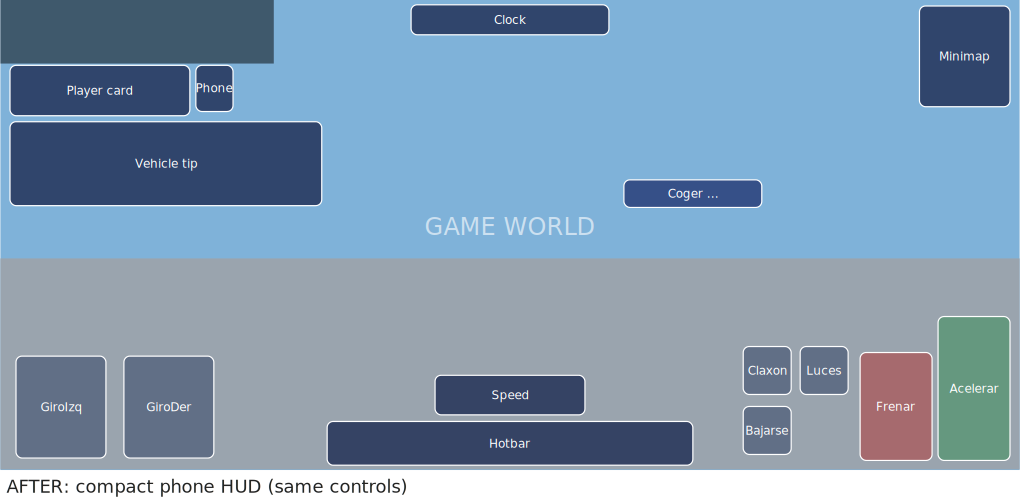
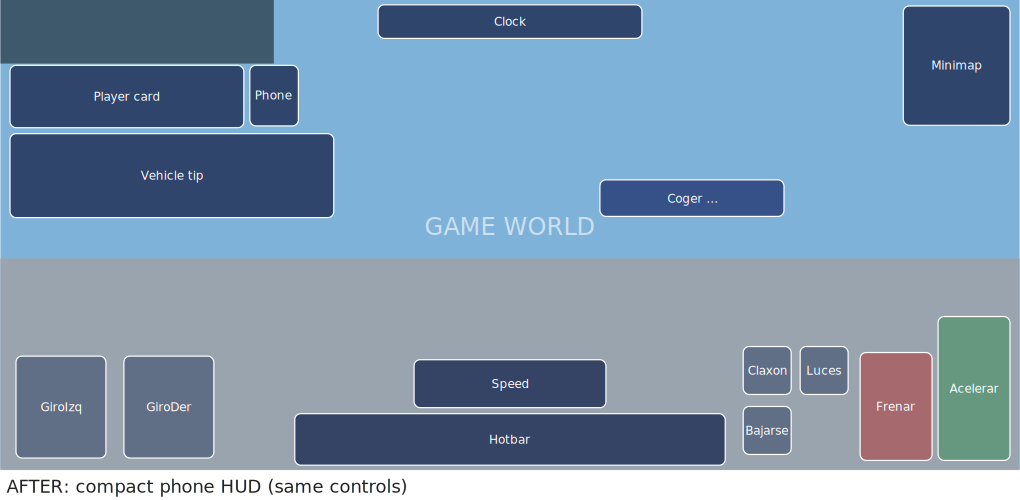
HUD del móvil: menos achicado, legible y con todo a mano
- Barra rápida a su tamaño y cuadro del coche a x1; minimapa a x0,85
- Tu estado: nivel y dinero ≥ 16 pt, 4 barras con icono (≥ 6 pt) y el
  número cuando una barra está baja; tocar sigue desplegándolo
- Hora grande en una fila con el tiempo y la fecha corta («mié 3 ene»)
- ValPhone al volante: icono de 44x55 pt
- Velocímetro de bici y patinete con los km/h bien grandes
- Notas y primeros pasos con letra ≥ 14 pt, «Saltar» y × ≥ 44 pt; toda la
  nota se toca y los consejos son cortos en el móvil
- El aviso del ValPhone se turna con las notas en el mismo sitio
- Carteles: uno solo, a su tamaño de siempre
- Tabla antes/después y esquemas actualizados (21,8 % frente a 37,6 %)

Claude-Session: https://claude.ai/code/session_01NLHSc9vUgM3Lfn2jUL556r

diff --git a/roblox/docs/hud-movil-compacto.md b/roblox/docs/hud-movil-compacto.md
@@ -1,13 +1,22 @@
 # HUD compacto en el móvil
 
 Queja del dueño (móvil apaisado, ~932x430 pt): «aparece mucha información en pantalla que apenas deja
-ver el juego». Y después: «No agrupes todos los botones ni los hagas más pequeños si así van a
-perjudicar a la hora de jugar. Optimiza pero que todo esté a mano».
+ver el juego». Después: «No agrupes todos los botones ni los hagas más pequeños si así van a
+perjudicar a la hora de jugar» y «vigila el hacer más pequeña la interfaz… No debemos excedernos en
+achicar las cosas».
 
-Regla: **lo que solo informa se encoge; los mandos no**. Joystick, racimo, ◀ ▶, FRENO / ACELERAR,
-Luces, claxon (Timbre), Bajarse, Interactuar y Acciones tienen el mismo tamaño y el mismo sitio en
-todos los modos (a pie, bici, patinete, coche). Todo se activa solo en pantallas táctiles sin teclado
-(`HudLayout.compute(..., { Touch = true })`); el ordenador no cambia.
+Reglas:
+
+- **El centro de la pantalla, libre**: lo que solo informa se **recoloca** (a los lados y arriba) y se
+  recoge, sin quedar diminuto.
+- **Los mandos no cambian**: joystick, racimo, ◀ ▶, FRENO / ACELERAR, Luces, claxon (Timbre),
+  Bajarse, Interactuar, Acciones y la **barra rápida** tienen el mismo tamaño y el mismo sitio en
+  todos los modos (a pie, bici, patinete, coche).
+- **Suelos** en el móvil del dueño (escala del HUD 0.548): lo que se toca ≥ 44x44 pt, textos ≥ 14 pt
+  (nivel y dinero ≥ 16 pt), barras ≥ 6 pt de grueso. `scripts/test-hud.luau` comprueba los de las
+  piezas nuevas.
+- Solo en pantallas táctiles sin teclado (`HudLayout.compute(..., { Touch = true })`); el ordenador no
+  cambia.
 
 ## Antes / después (932x430 pt, montado en el patinete eléctrico)
 
@@ -17,16 +26,16 @@ estimación sacada de las capturas.
 
 | Pieza | Antes (pt) | Antes | Después (pt) | Después | Qué cambia |
 |---|---|---|---|---|---|
-| Tu estado | 241x92 | 5,5 % | 164x46 | 1,9 % | plegado: foto, nivel, dinero y 4 barritas; tocar = desplegar 6 s |
-| Hora, fecha y tiempo | 329x35 | 2,9 % | 181x27 | 1,2 % | hora y tiempo; la fecha sigue en el ValPhone |
-| Minimapa | 115x128 | 3,7 % | 83x92 | 1,9 % | x0,72 desde la esquina |
-| ValPhone al volante | 61x77 | 1,2 % | 34x42 | 0,4 % | icono junto a tu estado |
-| Barra rápida | 394x47 | 4,6 % | 335x40 | 3,3 % | x0,85; sigue a la vista y se puede tocar al volante |
-| Cuadro de mandos (bici, patinete, monopatín) | 368x89 | 8,2 % | 137x36 | 1,2 % | solo km/h y batería: sin P R N D ni esferas |
-| Cuadro de mandos (coche) | 368x89 | 8,2 % | 276x67 | 4,6 % | el mismo, x0,9 en vez de x1,2 |
-| Consejo del vehículo | 351x82 (centro) | 7,2 % | 285x77 (izquierda) | 5,5 % | aviso a un lado, se va solo a los 5 s, una vez por jugador |
-| Carteles de la estación de bicis (est.) | 3 × 168x33 | 4,2 % | 1 × 126x25 | 0,8 % | solo el del botón grande (o el más cercano) |
-| **Total en el patinete** | | **37,6 %** | | **16,2 %** | **57 % menos** |
+| Tu estado | 241x92 | 5,5 % | 214x57 | 3,0 % | foto, nivel y dinero (≥ 16 pt), 4 barras con icono (6,6 pt); el número sale si una barra está baja; tocar = desplegar 6 s |
+| Hora, fecha y tiempo | 329x35 | 2,9 % | 241x31 | 1,8 % | una fila: la hora grande (~30 pt), tiempo, grados y «mié 3 ene» |
+| Minimapa | 115x128 | 3,7 % | 98x109 | 2,7 % | x0,85 desde la esquina |
+| ValPhone al volante | 61x77 | 1,2 % | 44x55 | 0,6 % | icono junto a tu estado (≥ 44 pt) |
+| Barra rápida | 394x47 | 4,6 % | 394x47 | 4,6 % | igual: es juego (objetos, vehículos, teléfono) |
+| Cuadro de mandos (bici, patinete, monopatín) | 368x89 | 8,2 % | 175x44 | 1,9 % | km/h grandes (~38 pt) y batería; sin P R N D ni esferas |
+| Cuadro de mandos (coche) | 368x89 | 8,2 % | 307x75 | 5,7 % | el mismo a x1 (antes x1,2 en el móvil) |
+| Consejo del vehículo | 351x82 (centro) | 7,2 % | 296x77 (izquierda) | 5,7 % | a un lado, letra ≥ 14 pt, se va solo a los 5 s, una vez por jugador |
+| Carteles de la estación de bicis (est.) | 3 × 168x33 | 4,2 % | 1 × 168x33 | 1,4 % | solo el del botón grande (o el más cercano), a su tamaño |
+| **Total en el patinete** | | **37,6 %** | | **21,8 %** | **42 % menos, y el centro libre** |
 | «¿Qué hago ahora?» (al tocar ❓, est.) | 508x128 (centro) | 16,2 % | ~370x150 (derecha) | ~13,8 % | arriba a la derecha, bajo el minimapa |
 
 Esquemas (mismos rectángulos, a escala): [antes](hud-movil/before.png) · [después](hud-movil/after.png)
@@ -38,15 +47,19 @@ Esquemas (mismos rectángulos, a escala): [antes](hud-movil/before.png) · [desp
 
 - `UI/HudLayout.luau`: `HudLayout.Compact` (medidas del móvil) y `Placement.Shrink`: la pieza se dibuja
   a su tamaño de diseño y se encoge con el UIScale «PressScale» (el de `Theme.pressable`, con su
-  atributo `Base`), así el minimapa, la barra rápida y el ValPhone no se rehacen por dentro.
-  `rect()` ya da el rectángulo encogido. Piezas nuevas: `StatusOpen`, `DashCompact`, `HelpCard`.
+  atributo `Base`), así el minimapa y el ValPhone no se rehacen por dentro. `rect()` ya da el
+  rectángulo encogido. Piezas nuevas: `StatusOpen`, `DashCompact`, `GuideNote`, `HelpCard`.
 - `UI/Hud.luau`: tu estado plegado (`buildCompactStatus`, botón «Expand»; se despliega solo unos
-  segundos si una barra baja de 25 %) y la cápsula de la hora pequeña.
+  segundos si una barra baja de 25 %) y la cápsula de la hora en una fila (`ShortDate`).
+- `UI/Phone.luau`: `Phone.bannerShowing()`. En el móvil el aviso del ValPhone va en el hueco de las
+  notas (debajo de tu estado) y se turnan: mientras se ve el aviso, la nota espera.
 - `Controllers/VehicleHud.luau`: «SpeedChip» para lo que no tiene intermitentes (`VehicleControls`).
-- `Controllers/Guide.luau`: pistas y consejos en `Items.Guide` (en el móvil, a la izquierda) y 5 s.
-  Los consejos ya se guardaban por jugador (`TipsSeen`, OnboardingService).
+- `Controllers/Guide.luau`: tarjeta de los primeros pasos y notas a la izquierda (`Items.Guide` /
+  `Items.GuideNote`), letra de 26 en el lienzo (≥ 14 pt), «Saltar» y la × de 80 (≥ 44 pt). En el móvil
+  toda la nota es el botón («👆 Toca para ir» al final del texto) y los consejos son la versión corta
+  (`Onboarding.TipsTouch`). Los consejos ya se guardaban por jugador (`TipsSeen`, OnboardingService).
 - `Controllers/HelpUI.luau`: tarjeta en `Items.HelpCard` (móvil: arriba a la derecha, 480 de ancho).
-- `Controllers/Prompts.luau`: en el móvil, un solo cartel (el del foco o el más cercano), más pequeño.
+- `Controllers/Prompts.luau`: en el móvil, un solo cartel (el del foco o el más cercano), a su tamaño.
 - Glifos que el móvil pintaba como «▯»: `✕` → `×` y `✓` → `✔` (p. ej. «Toca × para cerrar»).
 
 Pruebas: `lune run scripts/test-hud.luau` (apartado «HUD compacto del móvil», en 932x430) y
